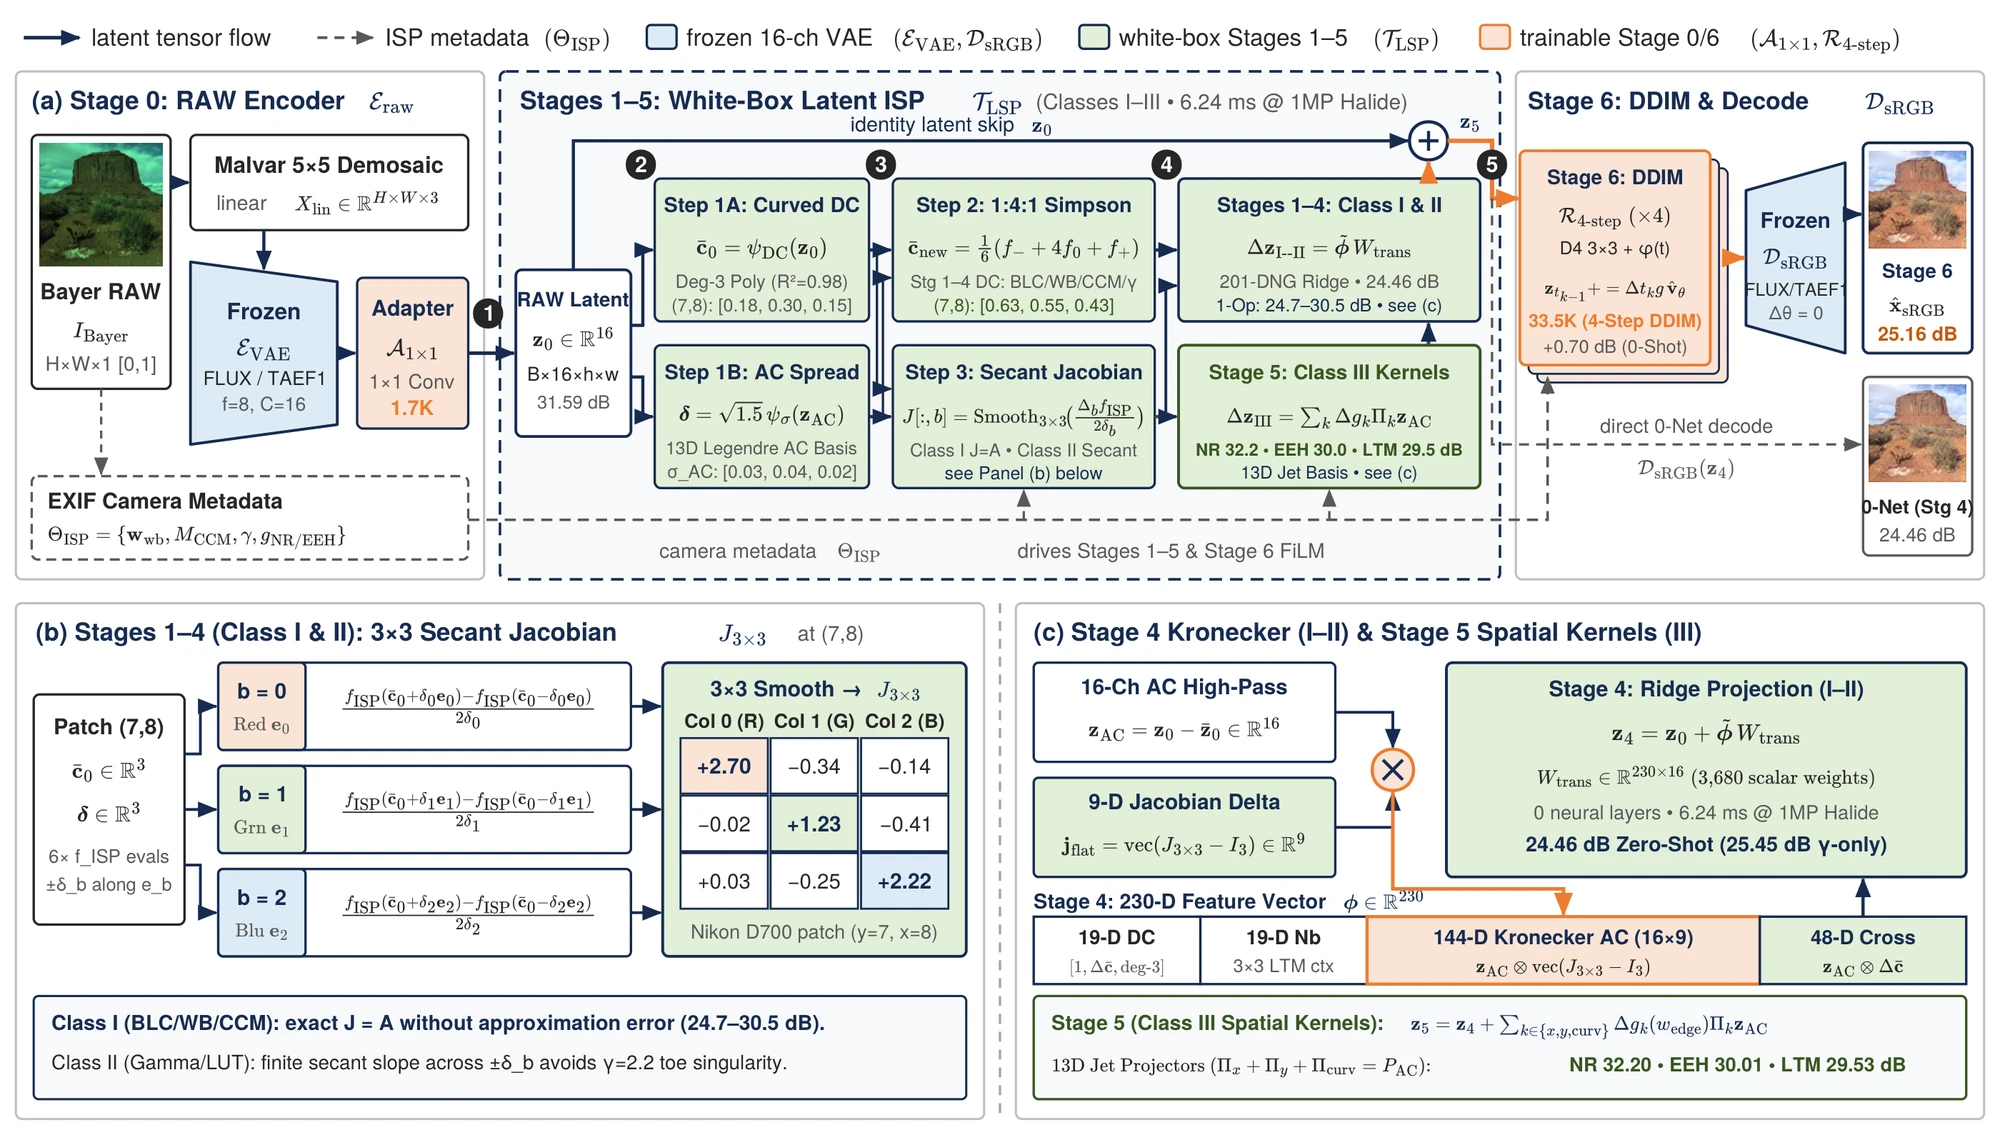
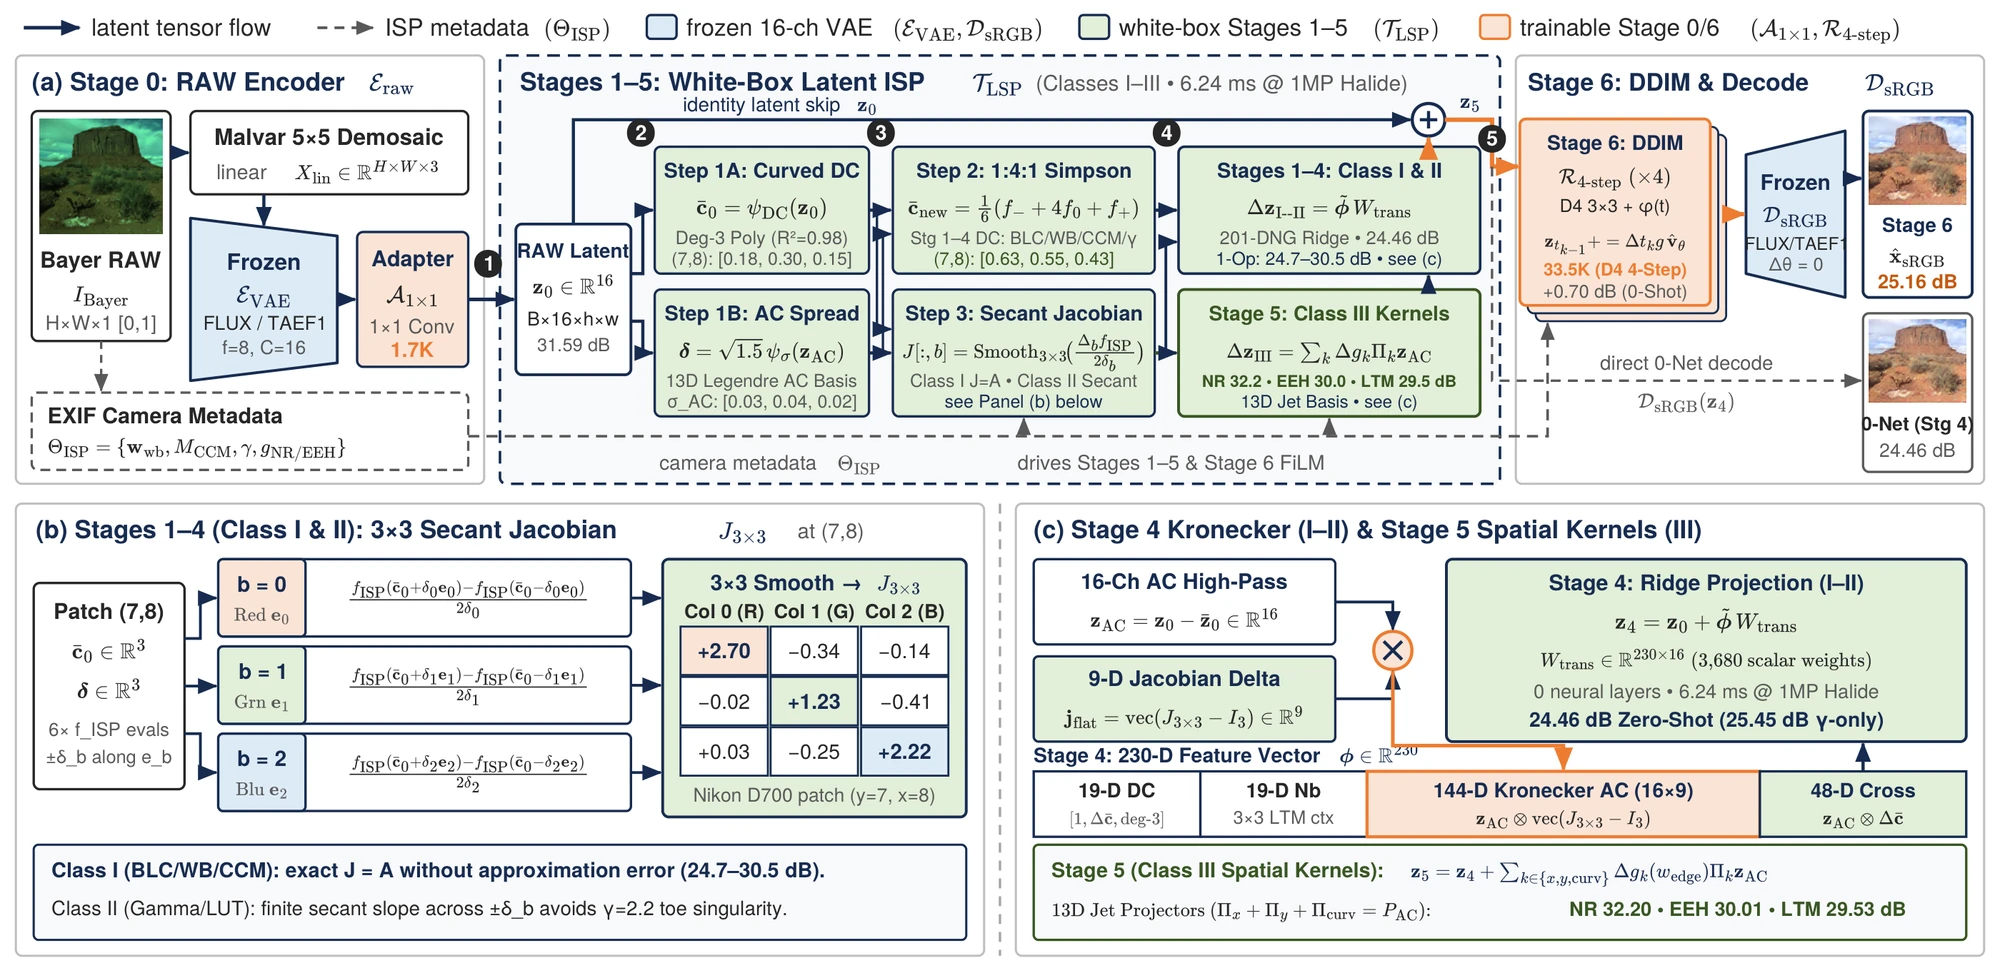
Sync AICAMERA guidebook (/aicamera/) and unified papers (/papers/)

Changed region(s): [[0.0, 0.0, 0.992, 0.9917]]

diff --git a/papers/comp_lsp.html b/papers/comp_lsp.html
@@ -1031,16 +1031,16 @@
       </div>
 
       <div class="span-all figure-card">
-        <img src="figures/comp_fig6_latent_geometry_linear_vs_srgb.webp" alt="Streamlined Three-Pillar Validation of 16-Channel Latent Geometry and Operator Classes I-III Across Stages 0-6">
+        <img src="figures/comp_fig6_latent_geometry_linear_vs_srgb.webp" alt="Overview of Comp-LSP on 16-Channel Latent Space">
         <div class="figure-caption">
-          <strong>Fig. 1. Streamlined Three-Pillar Validation of 16-Channel Latent Geometry and Operator Classes I&ndash;III Across Stages 0&ndash;6 (Sec. 3).</strong> <strong>(a)</strong> Curved 3D DC Submanifold ($R^2 = 0.9797$ degree-3 vs. $0.9100$ linear across <code>FLUX.1</code> channels) and full Stage $0\to 6$ chromatic trajectory in the Jet DC plane (<code>0:RAW</code> $\to$ <code>2:WB/3:CCM</code> $\to$ <code>4:&gamma;&rarr;5:Kern&rarr;6:DDIM</code>); <strong>(b)</strong> <strong>Class II Non-Linear</strong> 3-Point Simpson (<code>1:4:1</code>) Jet Quadrature gain ($+3.60\text{ to }+7.47\text{ dB}$, Eq. 3) over 1-point evaluation $f_{\text{ISP}}(\bar{\mathbf{c}}_0)$ on $8\times 8$ patch DC color; <strong>(c)</strong> Zero-shot single-stage operator PSNR across <strong>Classes I&ndash;III</strong> (<code>Stages 1&ndash;5</code>: <code>1:BLC</code> $30.4$, <code>2:WB</code> $24.7$, <code>3:CCM</code> $26.8$, <code>4:&gamma;</code> $25.5$, <code>5:EEH</code> $30.0$, <code>5:NR</code> $32.2$, <code>5:LTM</code> $29.5\text{ dB}$) and the <strong>Stage 5 Class III</strong> 13D orthonormal Legendre AC projector basis ($P_{\text{AC}} = \Pi_x^{(3)} \oplus \Pi_y^{(3)} \oplus \Pi_{\text{curv}}^{(7)}, w_{\text{edge}}(7,8)=0.981$).
+          <strong>Fig. 1. Overview of Comp-LSP on $\mathbb{R}^{16} = \mathcal{S}_{\text{DC}}^3 \oplus \mathcal{S}_{\text{AC}}^{13}$.</strong> <strong>(a)</strong> Prior pixel CNNs [7, 9, 14], black-box diffusion ISPs [8, 13], and 0th-order sRGB subspace shifts [4] incur $64\times$/iterative compute overhead or Bayer green casts and concave $\gamma$ Jensen bias; <strong>(b)</strong> Driven by DNG metadata $\Theta_{\text{ISP}}$, our $1/64$-grid operator executes <em>Class I Linear</em> (<code>BLC</code>, <code>WB</code>, <code>CCM</code>), <em>Class II Non-Linear</em> (<code>1:4:1</code> Simpson quadrature + $3\times 3$ Secant Jacobian Kronecker AC transport), <em>Class III Spatial Kernels</em> ($\Pi_{x,y,\text{curv}}$ + $3\times 3$ LTM), and 4-step $D_4$-DDIM refinement through frozen <code>FLUX.1</code>/<code>TAEF1</code>; <strong>(c)</strong> Unseen zero-shot results ($25.16\text{ dB}$, $R^2{=}0.9950$) and $16.7\times$ 12MP / $290.8\times$ 3A speedups.
         </div>
       </div>
 
       <div class="span-all figure-card">
-        <img src="figures/comp_fig8_pipeline_block_by_block_flow.webp" alt="Unified 7-Stage Latent Pipeline and Step-by-Step Visual Evolution" loading="lazy" decoding="async">
+        <img src="figures/comp_fig8_pipeline_block_by_block_flow.webp" alt="Full-Width 7-Stage Visual Evolution Across Three Unseen Cameras" loading="lazy" decoding="async">
         <div class="figure-caption">
-          <strong>Fig. 2. Unified 7-Stage Latent Pipeline Diagram (<code>Stages 0&ndash;6</code>) &amp; Step-by-Step Zero-Shot Visual Evolution Across Three Unseen Hardware Camera Captures (<code>Nikon D700</code>, <code>Canon EOS 40D</code>, and Official <code>OpenISP test.RAW</code>).</strong> <strong>(Row 1)</strong> All 7 sequential pipeline stages spanning Classes I&ndash;III (<code>Stage 0: RAW Enc</code> &rarr; <code>Stage 1: BLC/Gain [Class I]</code> &rarr; <code>Stage 2: White Bal. [Class I]</code> &rarr; <code>Stage 3: 3&times;3 CCM [Class I]</code> &rarr; <code>Stage 4: Gamma 0-Net [Class II]</code> &rarr; <code>Stage 5: Spatial Kernels NR+EEH [Class III]</code> &rarr; <code>Stage 6: 4-Step Conditional DDIM Diffusion Bridge &amp; Frozen Decoder</code>); <strong>(Rows 2&ndash;4)</strong> Decoded image $\mathcal{D}_{\text{sRGB}}(\mathbf{z}_k)$, PSNR vs. stage Ground Truth, and R/G/B level bars; <strong>(Row 5)</strong> 16-channel latent activation barcode $\mathbf{z}_k \in \mathbb{R}^{16}$ ($\|\mathbf{z}_0\|_2 \dots \|\mathbf{z}_6\|_2$) at patch $(y=7,x=8)$.
+          <strong>Fig. 2. Full-Width 7-Stage Visual Evolution (<code>Stages 0&ndash;6</code>) Across Three Unseen Cameras (<code>Nikon D700</code>, <code>Canon EOS 40D</code>, <code>OpenISP test.RAW</code>).</strong> <strong>(a)</strong> Classes I&ndash;III chain (<code>0:RAW</code> &rarr; <code>1:BLC</code> &rarr; <code>2:WB</code> &rarr; <code>3:CCM</code> &rarr; <code>4:&gamma;</code> &rarr; <code>5:NR+EEH</code> &rarr; <code>6:DDIM</code>) with decoded $512\times 512$ sRGB outputs, PSNR, and normalized R/G/B balance bars; <strong>(b)</strong> 16-ch latent barcode $\mathbf{z}_k(7,8)\in\mathbb{R}^{16}$ showing clean energy compression across stages.
         </div>
       </div>
 

diff --git a/aicamera/chapters/comp_lsp.html b/aicamera/chapters/comp_lsp.html
@@ -376,7 +376,7 @@
 
       <figure class="diagram" id="fig-clsp-block-flow">
         <img src="../assets/img/fig8_pipeline_block_by_block_flow.webp" alt="7단계(Stage 0–6) 16채널 잠재 ISP 연산자 수식, 3대 하드웨어 카메라 단계별 시각적 진화 및 16채널 잠재 바코드" class="paper-fig-img" loading="lazy" decoding="async">
-        <figcaption><b>그림 5-3 (논문 Fig. 2).</b> 7단계(Stage 0–6) 통합 16채널 잠재 ISP 파이프라인 및 3대 실제 하드웨어 카메라(MIT-FiveK Nikon D700 12-bit BGGR, Canon EOS 40D 14-bit RGGB, Official OpenISP 10-bit RGGB)의 단계별 복원 결과 (출처: <a class="src" href="../../comp_lsp/paper/generate_pipeline_block_by_block_fig.py" title="comp_lsp/paper/generate_pipeline_block_by_block_fig.py (line 94)" target="_blank" rel="noopener">generate_pipeline_block_by_block_fig.py:94</a>). Stage 1–3(Class I 선형), Stage 4(Class II 비선형 감마), Stage 5(Class III 공간 커널 NR+EEH), Stage 6(4-Step 조건부 확산 브리지 리파이너)을 순차 통과하며, 하단 <b>(c)</b>는 Nikon D700 패치 \((7,8)\)의 16개 잠재 채널 활성화(\(c_0 \dots c_{15}\))가 7단계에 걸쳐 재분포되는 바코드 궤적을 보여줍니다.</figcaption>
+        <figcaption><b>그림 5-3 (논문 Fig. 2).</b> 7단계(Stage 0–6) 통합 16채널 잠재 ISP 파이프라인 및 3대 실제 하드웨어 카메라(MIT-FiveK Nikon D700 12-bit BGGR, Canon EOS 40D 14-bit RGGB, Official OpenISP 10-bit RGGB)의 단계별 복원 결과 (출처: <a class="src" href="../../comp_lsp/paper/generate_pipeline_block_by_block_fig.py" title="comp_lsp/paper/generate_pipeline_block_by_block_fig.py (line 105)" target="_blank" rel="noopener">generate_pipeline_block_by_block_fig.py:105</a>). Stage 1–3(Class I 선형), Stage 4(Class II 비선형 감마), Stage 5(Class III 공간 커널 NR+EEH), Stage 6(4-Step 조건부 확산 브리지 리파이너)을 순차 통과하며, 하단 <b>(c)</b>는 Nikon D700 패치 \((7,8)\)의 16개 잠재 채널 활성화(\(c_0 \dots c_{15}\))가 7단계에 걸쳐 재분포되는 바코드 궤적을 보여줍니다.</figcaption>
       </figure>
     </section>
 

diff --git a/aicamera/en/chapters/comp_lsp.html b/aicamera/en/chapters/comp_lsp.html
@@ -375,7 +375,7 @@
 
       <figure class="diagram" id="fig-clsp-block-flow">
         <img src="../../assets/img/fig8_pipeline_block_by_block_flow.webp" alt="7-stage (Stages 0-6) 16-channel latent ISP operators, 3 hardware camera trajectories, and 16-channel latent barcode" class="paper-fig-img" loading="lazy" decoding="async">
-        <figcaption><b>Figure 5-3 (Paper Fig. 2).</b> Unified 7-Stage (Stages 0–6) 16-Channel Latent ISP Pipeline and Step-by-Step Visual Evolution Across 3 Hardware Cameras (MIT-FiveK Nikon D700 12-bit BGGR, Canon EOS 40D 14-bit RGGB, Official OpenISP 10-bit RGGB; Source: <a class="src" href="../../../comp_lsp/paper/generate_pipeline_block_by_block_fig.py" title="comp_lsp/paper/generate_pipeline_block_by_block_fig.py (line 94)" target="_blank" rel="noopener">generate_pipeline_block_by_block_fig.py:94</a>). Tensors progress sequentially through Stages 1–3 (Class I Linear), Stage 4 (Class II Non-Linear Gamma), Stage 5 (Class III Spatial Kernels NR+EEH), and Stage 6 (4-Step Conditional DDIM Bridge), while bottom panel <b>(c)</b> visualizes the 16-channel latent activation barcode (\(c_0 \dots c_{15}\)) on Nikon D700 patch \((7,8)\) redistributing across all 7 stages.</figcaption>
+        <figcaption><b>Figure 5-3 (Paper Fig. 2).</b> Unified 7-Stage (Stages 0–6) 16-Channel Latent ISP Pipeline and Step-by-Step Visual Evolution Across 3 Hardware Cameras (MIT-FiveK Nikon D700 12-bit BGGR, Canon EOS 40D 14-bit RGGB, Official OpenISP 10-bit RGGB; Source: <a class="src" href="../../../comp_lsp/paper/generate_pipeline_block_by_block_fig.py" title="comp_lsp/paper/generate_pipeline_block_by_block_fig.py (line 105)" target="_blank" rel="noopener">generate_pipeline_block_by_block_fig.py:105</a>). Tensors progress sequentially through Stages 1–3 (Class I Linear), Stage 4 (Class II Non-Linear Gamma), Stage 5 (Class III Spatial Kernels NR+EEH), and Stage 6 (4-Step Conditional DDIM Bridge), while bottom panel <b>(c)</b> visualizes the 16-channel latent activation barcode (\(c_0 \dots c_{15}\)) on Nikon D700 patch \((7,8)\) redistributing across all 7 stages.</figcaption>
       </figure>
     </section>
 

diff --git a/aicamera/js/common.js b/aicamera/js/common.js
@@ -718,7 +718,7 @@
 
     const foot = document.createElement("footer");
     foot.className = "sb-foot";
-    foot.innerHTML = `AICAMERA 인터랙티브 아키텍처 가이드북 · <code>docs/build_spec_portal.py</code> 로 생성 · build 2026-11-15 17:54 · commit <code>4aa2fcd</code><br>모든 벤치마크 수치는 저장소 JSON 정본에서, ISP·3A 기본값은 C99 헤더에서 빌드 시 자동 추출 및 검증됩니다.`;
+    foot.innerHTML = `AICAMERA 인터랙티브 아키텍처 가이드북 · <code>docs/build_spec_portal.py</code> 로 생성 · build 2026-11-20 04:51 · commit <code>a72d316</code><br>모든 벤치마크 수치는 저장소 JSON 정본에서, ISP·3A 기본값은 C99 헤더에서 빌드 시 자동 추출 및 검증됩니다.`;
     body.appendChild(foot);
 
     try {

diff --git a/aicamera/en/js/common.js b/aicamera/en/js/common.js
@@ -718,7 +718,7 @@
 
     const foot = document.createElement("footer");
     foot.className = "sb-foot";
-    foot.innerHTML = `AICAMERA Interactive Architecture Guidebook · Generated by <code>docs/build_spec_portal.py</code> · build 2026-11-15 17:54 · commit <code>4aa2fcd</code><br>All benchmark metrics are extracted from canonical repository JSONs and ISP/3A defaults are parsed from C99 headers at build time.`;
+    foot.innerHTML = `AICAMERA Interactive Architecture Guidebook · Generated by <code>docs/build_spec_portal.py</code> · build 2026-11-20 04:51 · commit <code>a72d316</code><br>All benchmark metrics are extracted from canonical repository JSONs and ISP/3A defaults are parsed from C99 headers at build time.`;
     body.appendChild(foot);
 
     try {
